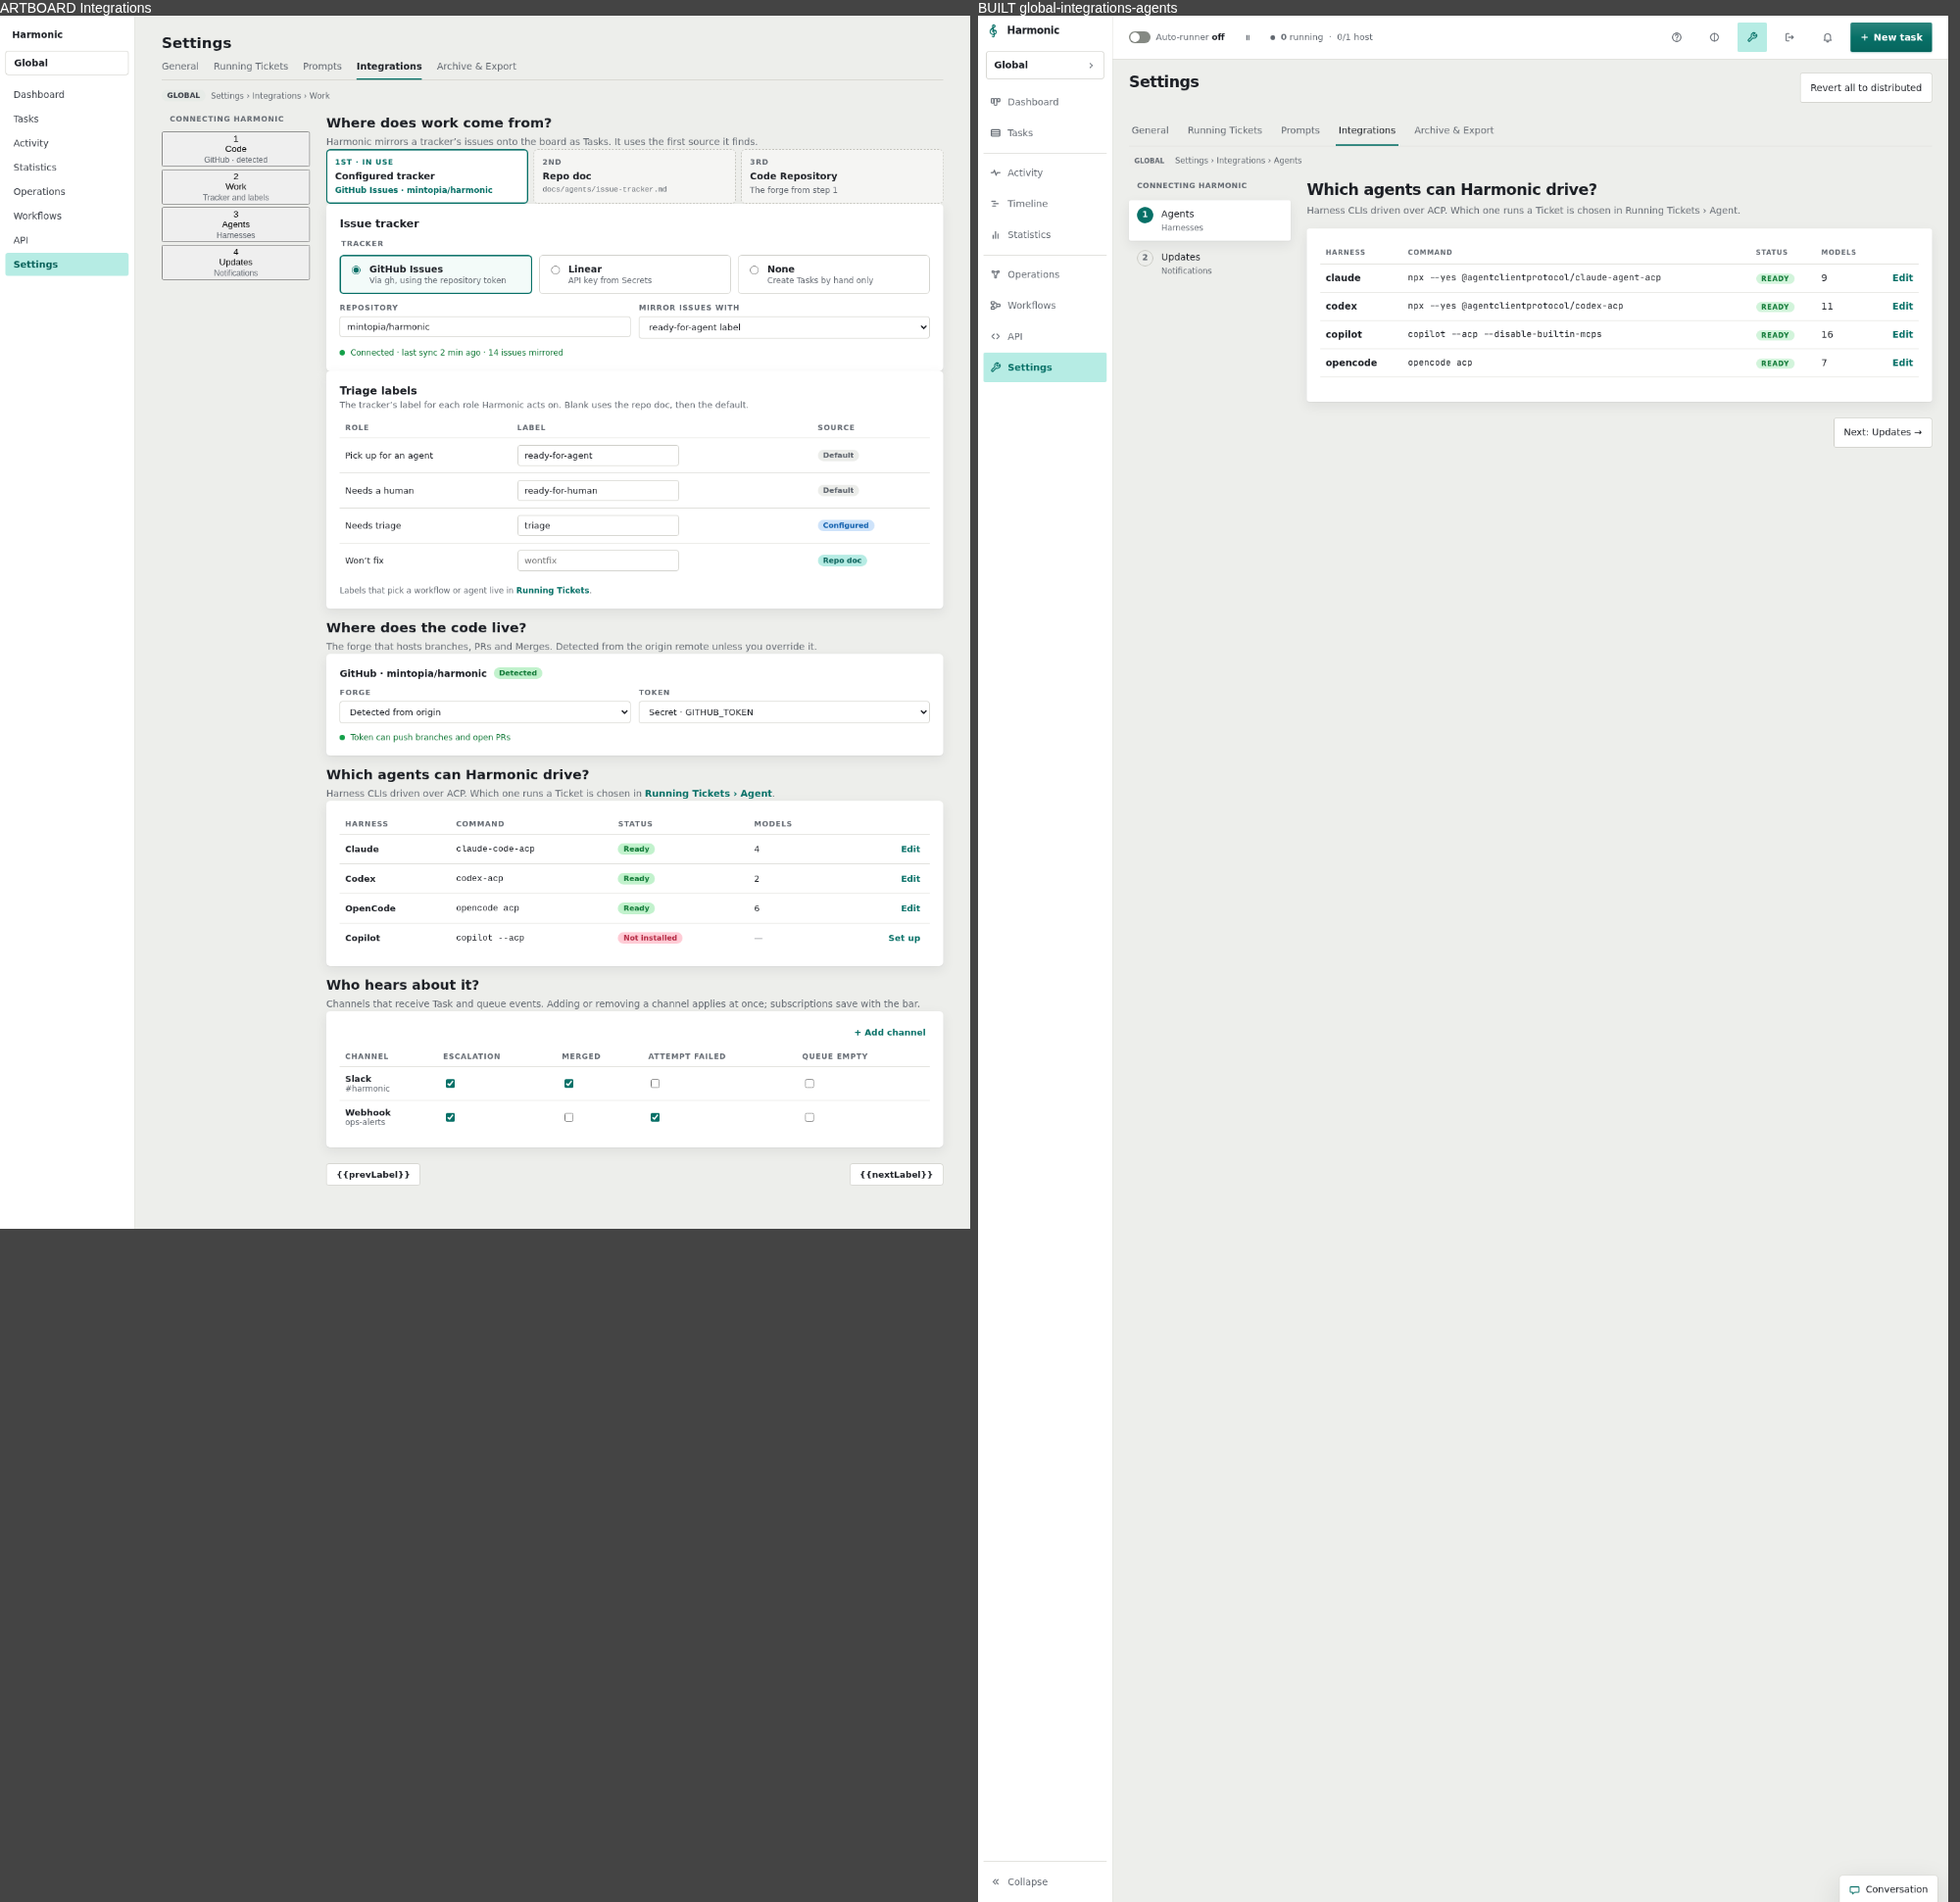
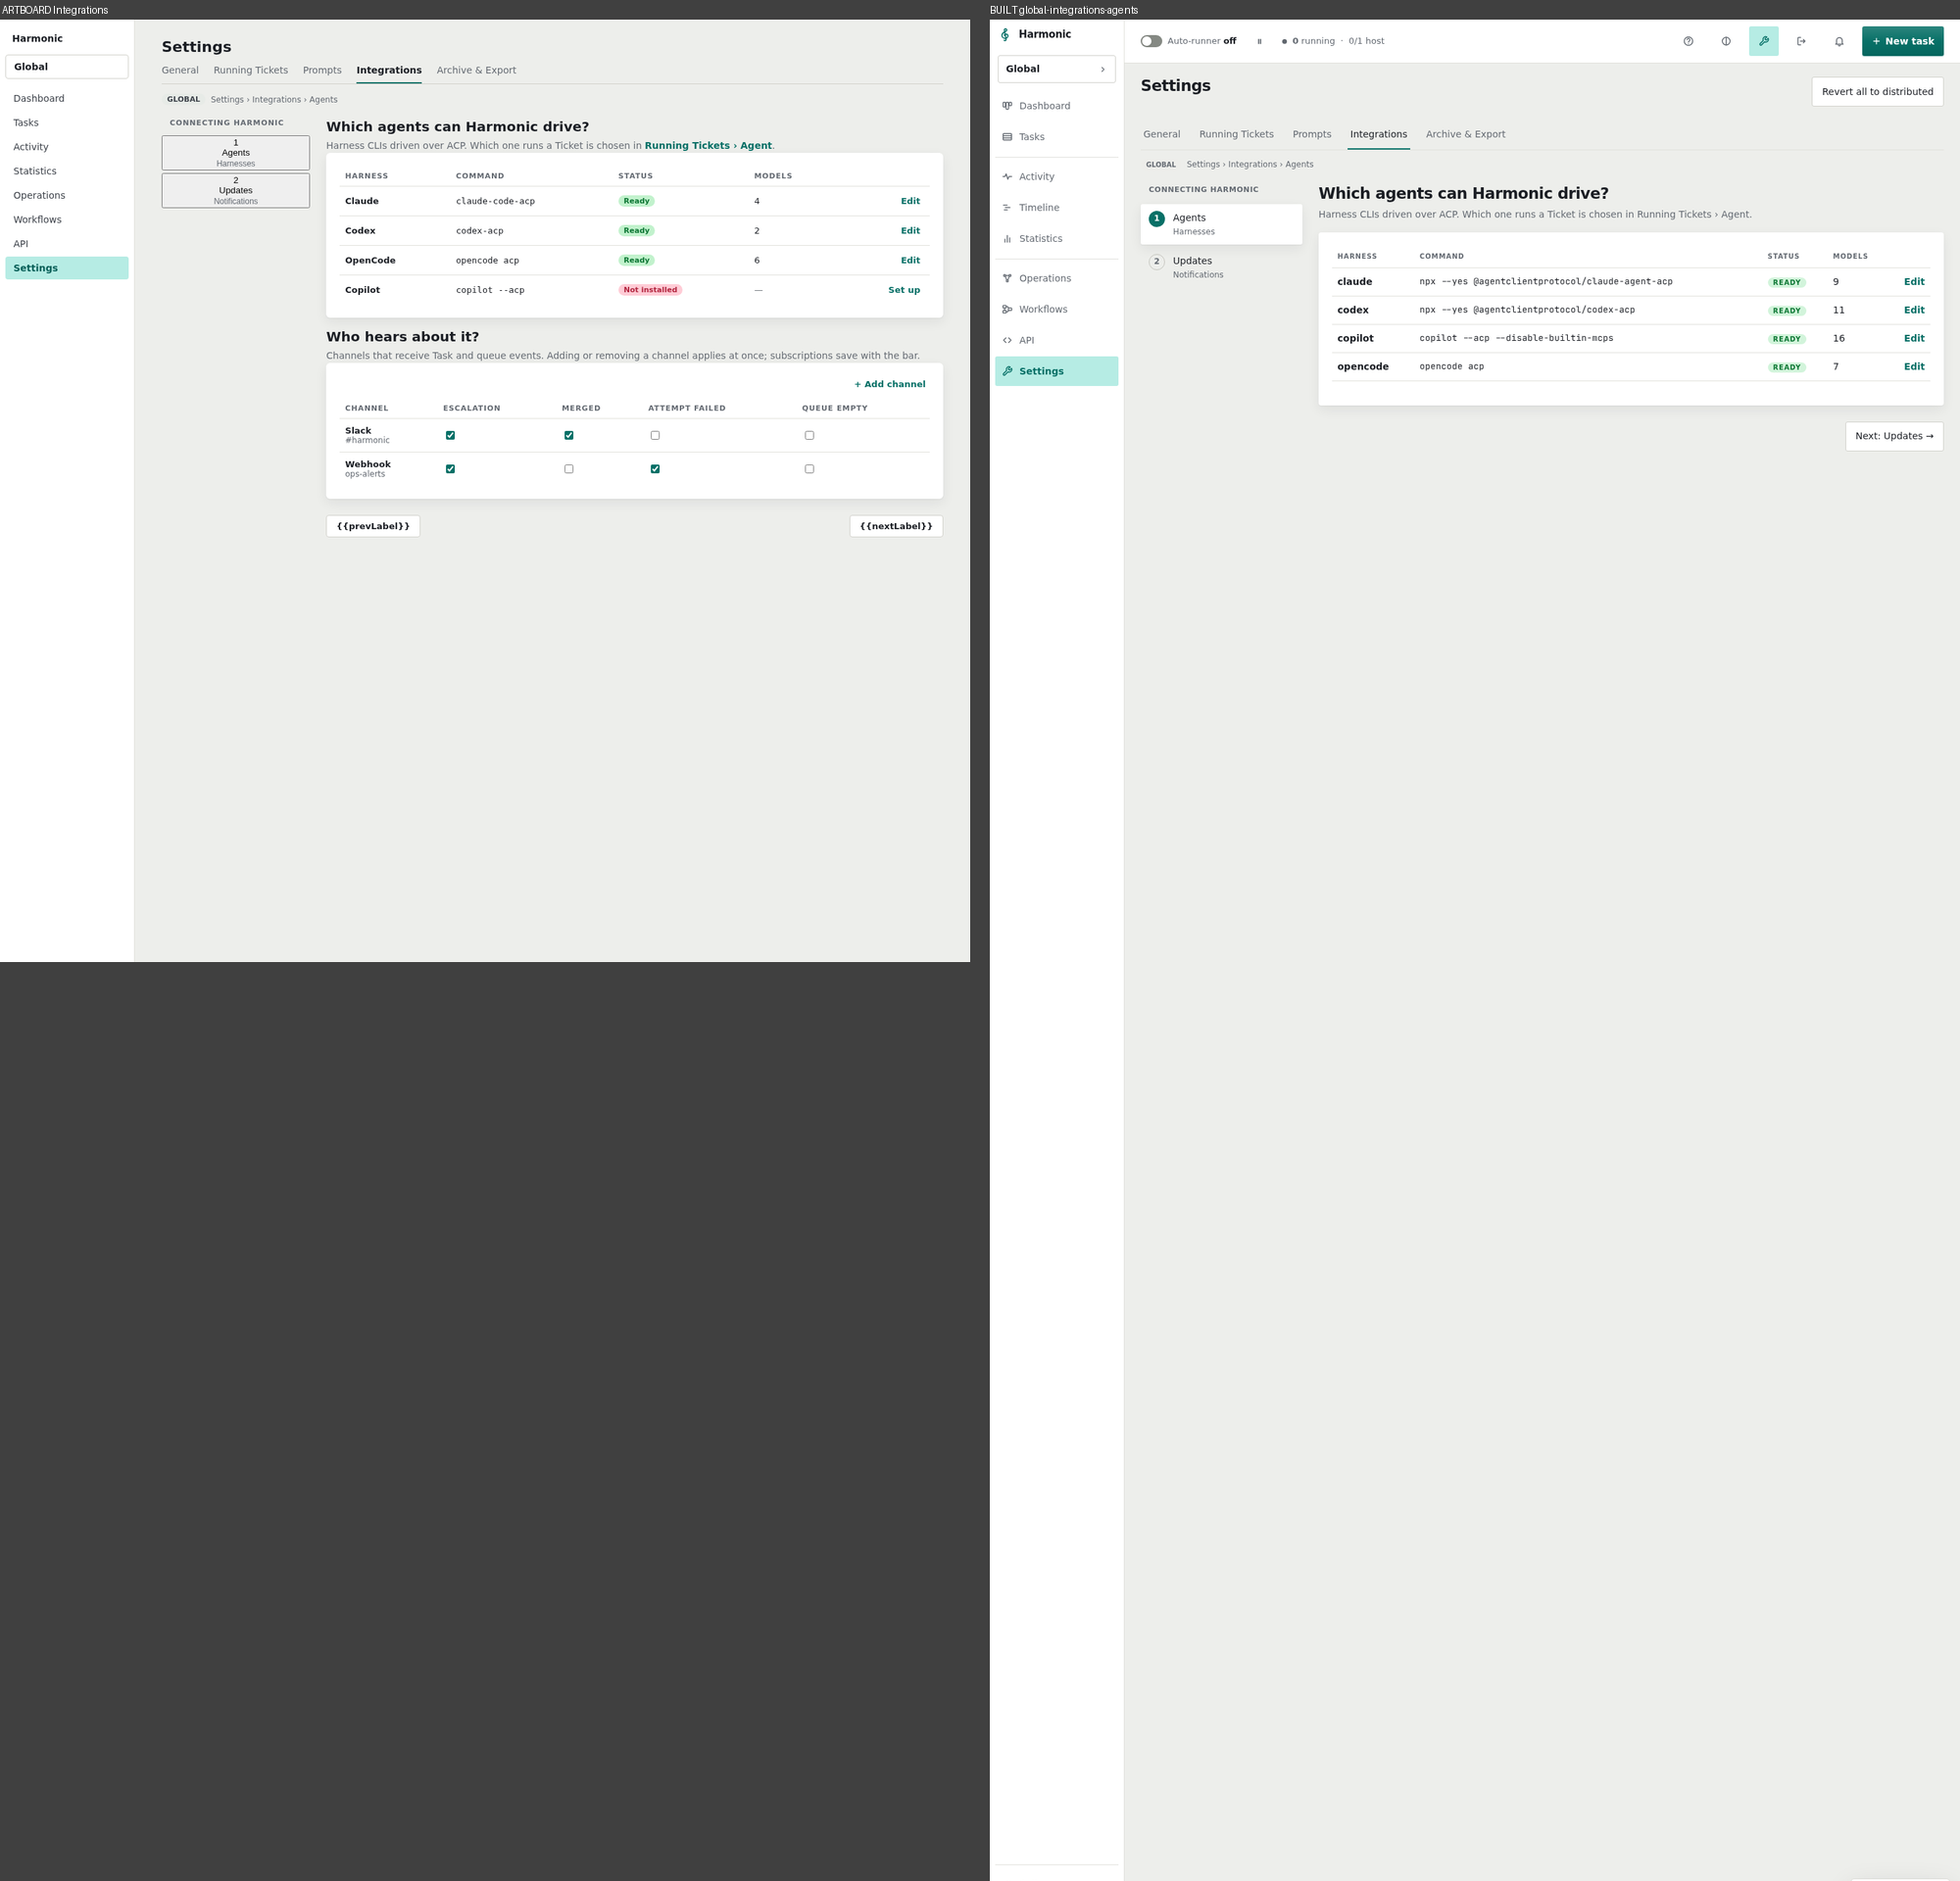
docs(settings): #969 re-take Integrations pair for the two-step Global rail, drop obsolete Code/Work shots

diff --git a/docs/mockups/settings-flow/screenshots/verification/REPORT.md b/docs/mockups/settings-flow/screenshots/verification/REPORT.md
@@ -1,7 +1,7 @@
 # Verification (#965)
 
-Built app driven with Playwright. Global and Workspace scope, 1440px and 390px, light and dark, every tab and step (172 shots, `<scope>-<tab>-<step>-<width>-<scheme>.png`). Artboards screenshotted at 1440 and paired in `pair-<Artboard>.png` (artboard left, built right, Global, light). Workflows library, editor Blocks/YAML/Variables also captured.
-Notes: Global Integrations has no Code/Work step and Prompts Edit/Impact need a selected prompt, so those URLs fall back to the first step by design; Workspace shots exist for code/work and a prompt was clicked for Edit/Impact at Global.
+Built app driven with Playwright. Global and Workspace scope, 1440px and 390px, light and dark, every tab and step (164 shots, `<scope>-<tab>-<step>-<width>-<scheme>.png`). Artboards screenshotted at 1440 and paired in `pair-<Artboard>.png` (artboard left, built right, Global, light). Workflows library, editor Blocks/YAML/Variables also captured.
+Notes: Global Integrations has only Agents and Updates (Code and Work are Workspace-only), and Prompts Edit/Impact need a selected prompt, so those URLs fall back to the first step by design; Workspace shots exist for code/work and a prompt was clicked for Edit/Impact at Global.
 
 | Check | Result | Note |
 | --- | --- | --- |
@@ -10,7 +10,7 @@ Notes: Global Integrations has no Code/Work step and Prompts Edit/Impact need a 
 | Rail sticky, stacks at 390px | match | `StepRail` md:sticky; 390 shots stack |
 | Resolution strips present, live | match | Workflow, Agent, Archive strips reflect settings |
 | Classifier cards at Global | defect | #968 |
-| Global Integrations Code/Work | defect | #969 |
+| Global Integrations steps (Agents, Updates only; Code and Work are Workspace-only) | match | #969: artboard amended, pair-Integrations re-taken |
 | Limits toggles/units/layout | defect | #970 |
 | Where Note wrapping | defect | #971 |
 | No max-width caps on intros | match | Workflows library intro fixed in this change |
